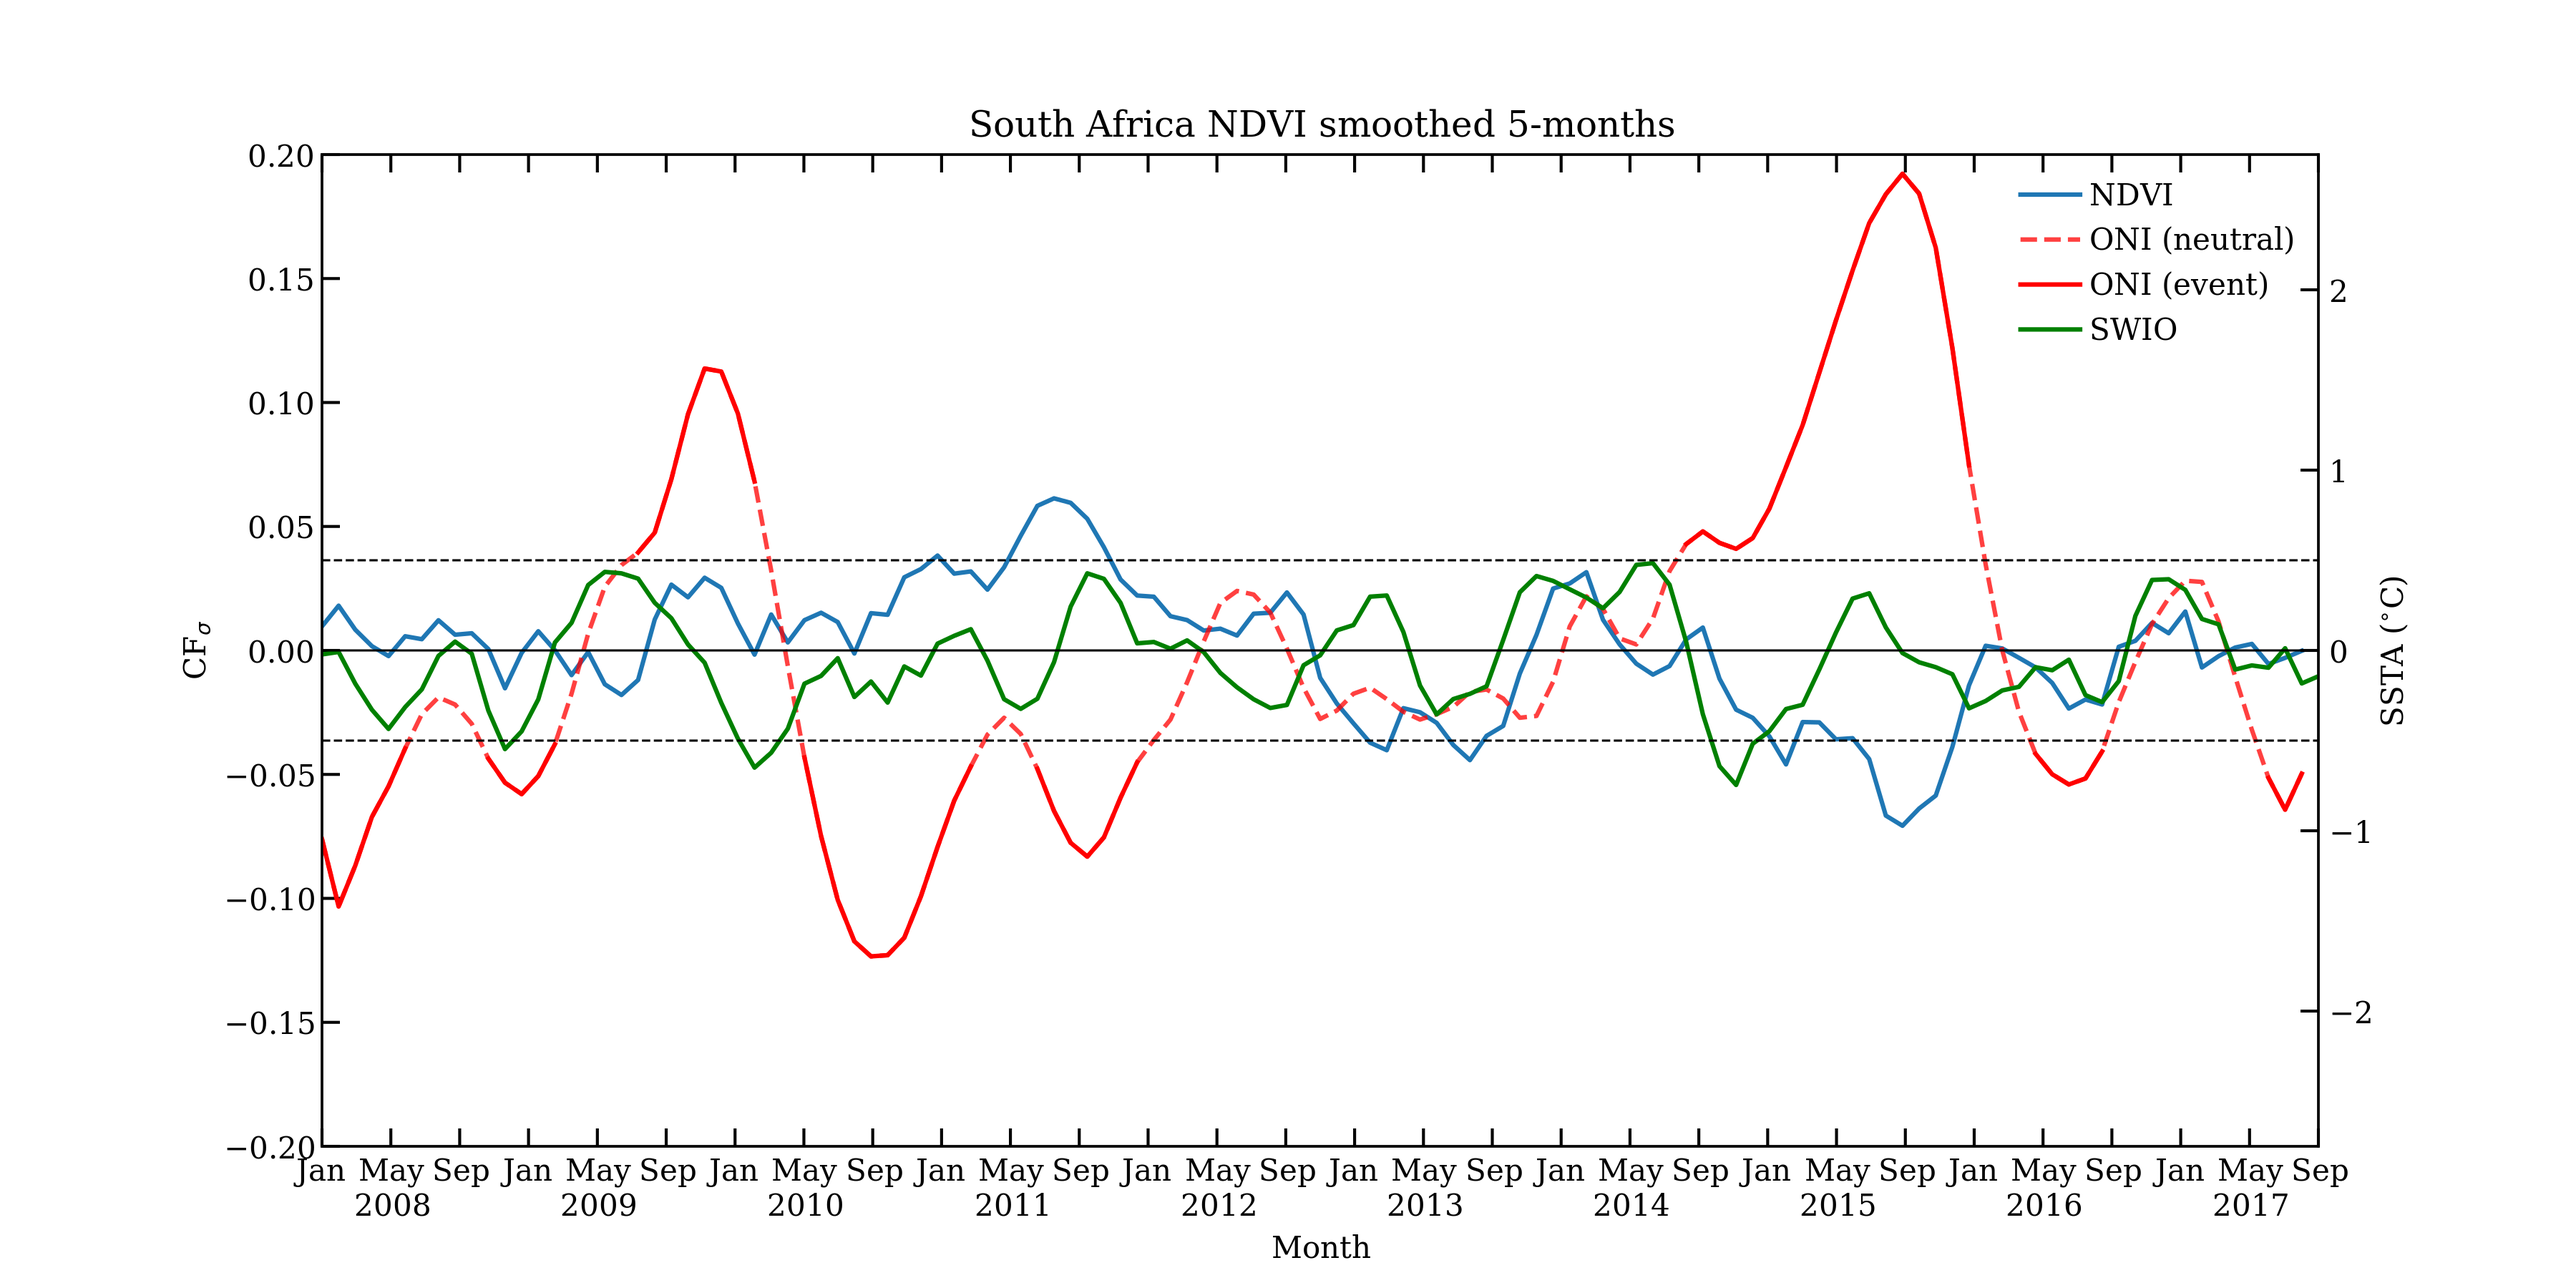
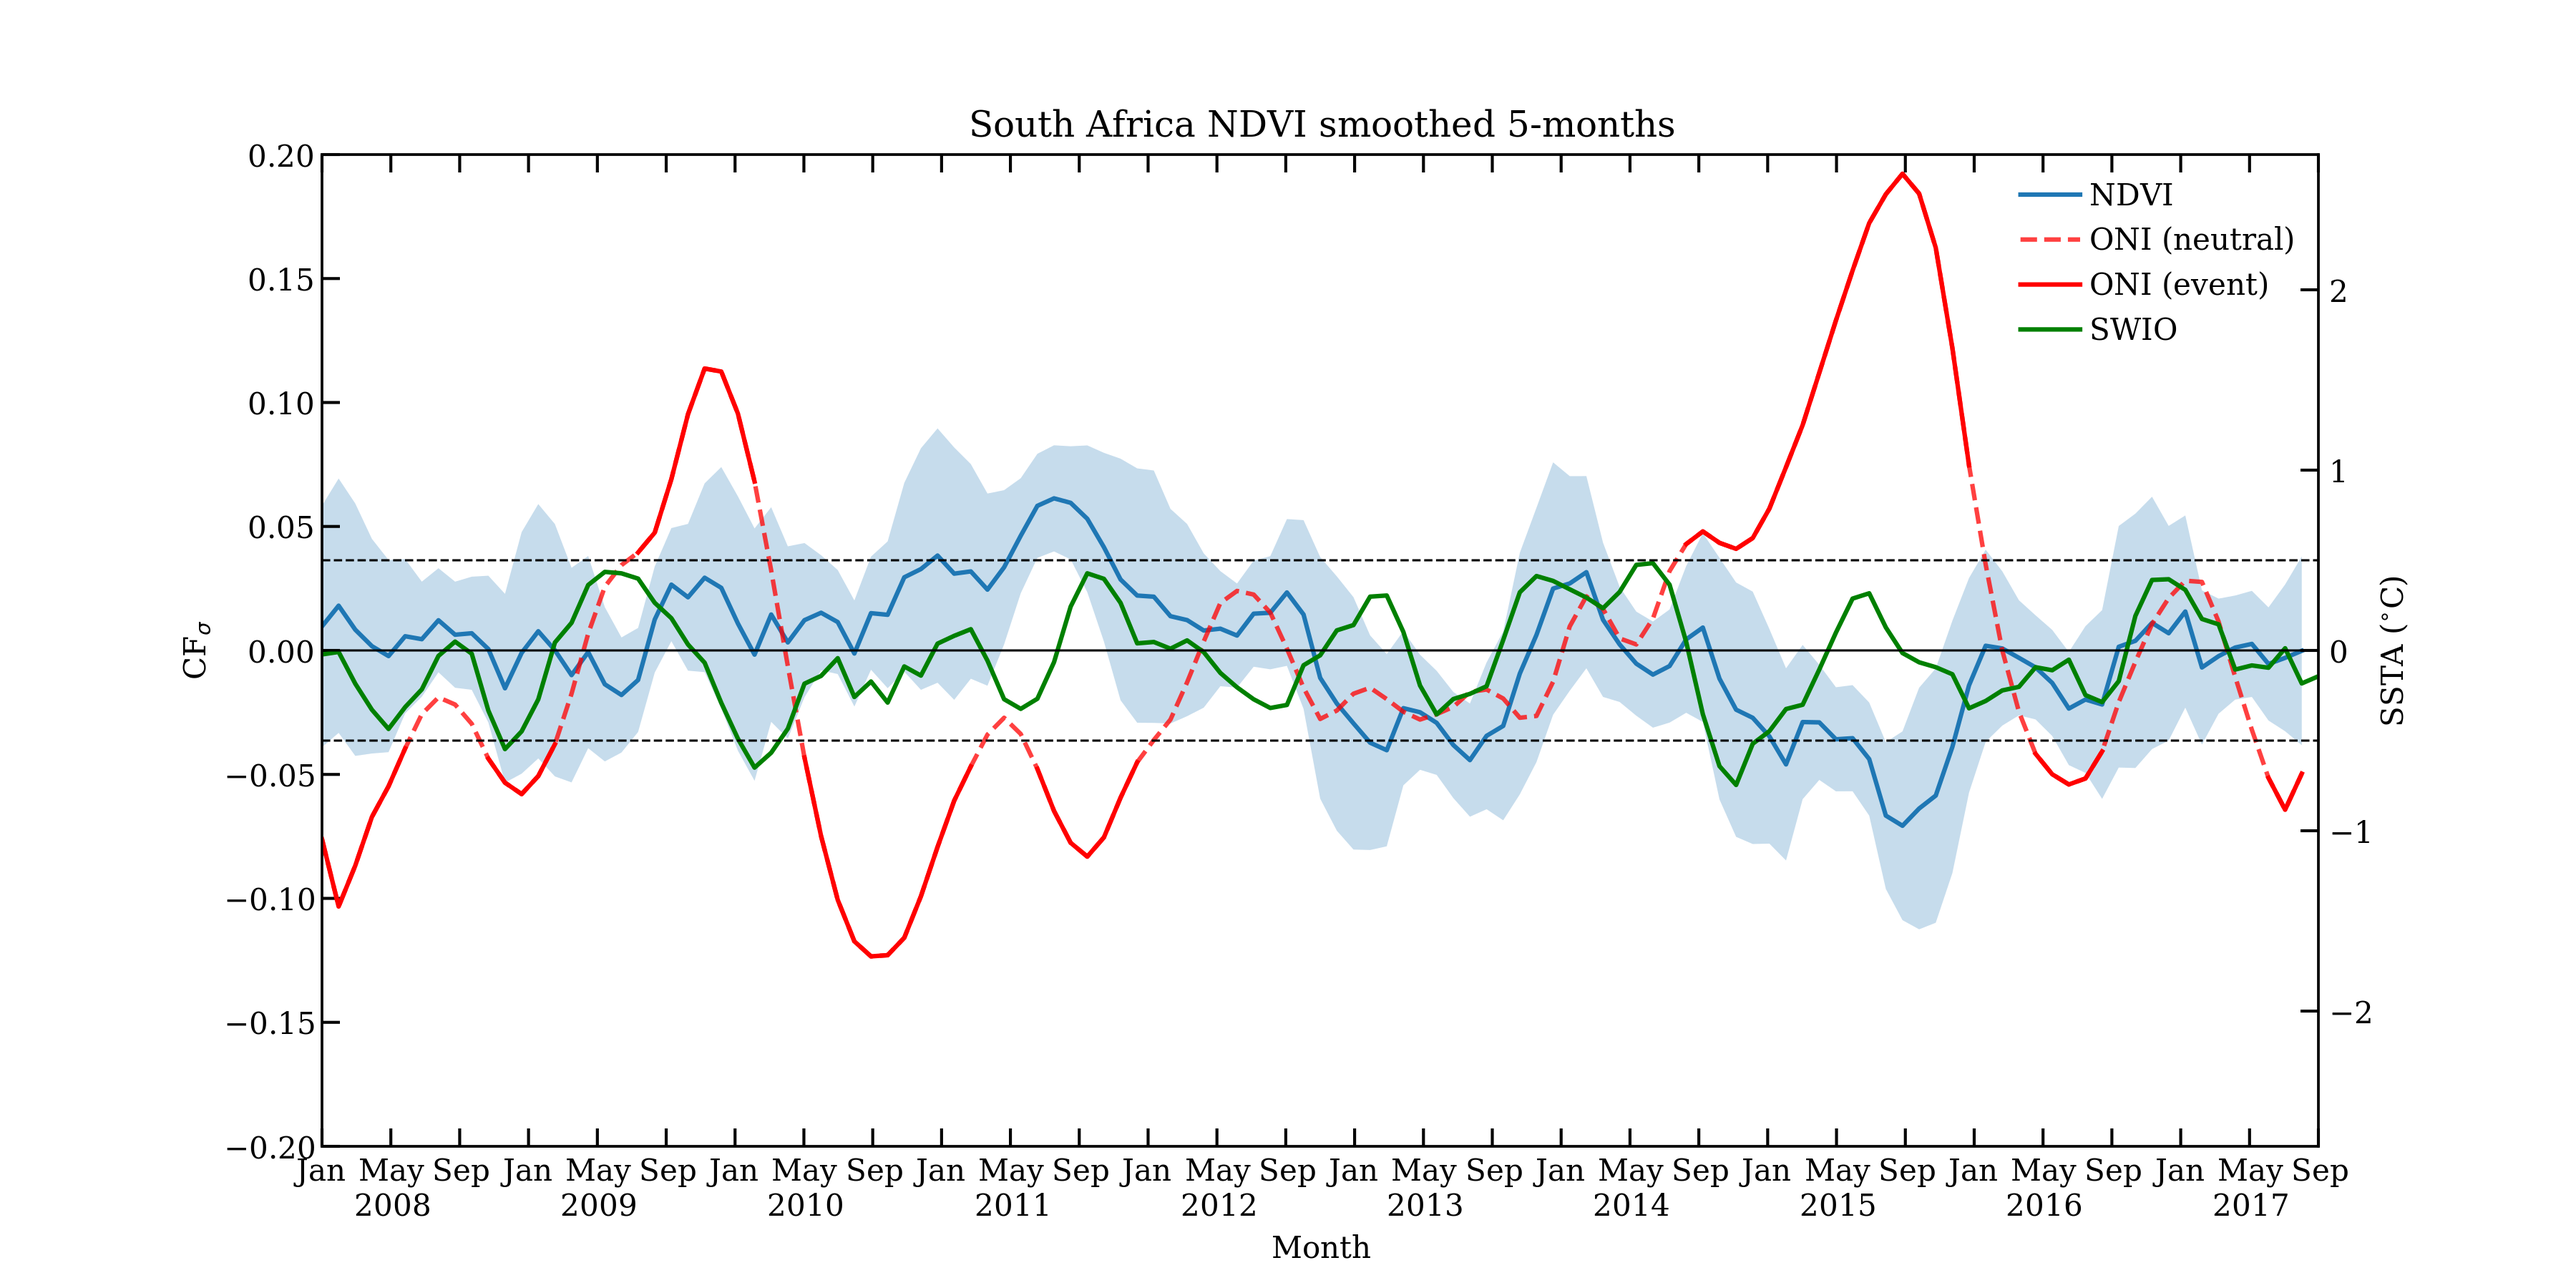
Add errors to ndvi

Changed region(s): [[0.1244, 0.3422, 0.9022, 0.7156]]

diff --git a/code/ndvi_analysis.py b/code/ndvi_analysis.py
@@ -269,7 +269,7 @@ def plot_three_fb_ds(plotting_data, idxs, corr_labels, x_labels, month_step):
                     plotting_data[0][0] - plotting_data[0][1], alpha=0.25)
     ax.set_xlim([0, n])
     ax.set_ylim([-0.2, 0.2])
-    ax.set_ylabel(r'CF$_{\sigma}$')
+    ax.set_ylabel(r'NDVI$_{\sigma}$')
     ax1 = ax.twinx()
     # plot all th
     neu = replace_with_nans(plotting_data[1], np.logical_or(idxs[0], idxs[1]))
@@ -297,7 +297,7 @@ def plot_three_fb_ds(plotting_data, idxs, corr_labels, x_labels, month_step):
     ax.set_xticklabels([])
     ax1.set_xticklabels(x_labels)
     ax.set_xlabel('Month')
-    ax1.set_xlabel('Month')    
+    ax1.set_xlabel('Month')
 
 
 def plot_ndvi_with_dmi(region, smooth=6):
@@ -344,6 +344,14 @@ def plot_ndvi_with_dmi(region, smooth=6):
 
     return None
 
+def ndvi_uncertainty(month, region):
+    fnames = sorted(glob.glob(ndvi_dir + ndvi_fmt.format('*', month, region) + '.npy'))
+    mask = (1 - image_region(land_mask, weathr_regions[region])).astype(bool)
+    ndvi = np.dstack([np.load(fname)[mask] for fname in fnames]).ravel()
+
+    return abs(np.diff(np.percentile(ndvi, [75, 25]))[0]/2)
+
+
 def plot_ndvi_with_oni_io(region, smooth=5):
     from coverage_analysis_functions import (nino_range,
                                              consecutive_anomalies,
@@ -374,12 +382,15 @@ def plot_ndvi_with_oni_io(region, smooth=5):
         if np.all(oni_tmm[i:(i+5)] >= 0.5):  en[i:(i+5)] = True
         if np.all(oni_tmm[i:(i+5)] <= -0.5): ln[i:(i+5)] = True
 
+    # Uncertainty is simply IQR
+    errors = np.tile([ndvi_uncertainty('{:02d}'.format(m), region)
+                      for m in np.arange(1,13)],
+                     10)
+
     corr_labels = ['NDVI', 'ONI (neutral)', 'ONI (event)', io_label]
     # TODO Add error data here for NDVI, using IQR.
-    plotting_data = [[ndvi_anomalies(region, smooth=smooth)[0],
-                      np.zeros_like(ndvi_anomalies(region, smooth=smooth)[0])],
-                     oni_tmm,
-                     io_tmm[2]]
+    plotting_data = [[ndvi_anomalies(region, smooth=smooth)[0], errors],
+                     oni_tmm, io_tmm[2]]
     month_step = 4
     x_labels = month_and_year_labels(np.tile([1, 5, 9], 10), np.arange(2008, 2018), 4)    
     plot_three_fb_ds(plotting_data, [en, ln], corr_labels, x_labels, month_step)

diff --git a/report/results.tex b/report/results.tex
@@ -179,7 +179,7 @@ positive anomaly (e.g. far west, north west).
   \end{subfigure}
   \begin{subfigure}{\textwidth}
     \centering
-    \includegraphics[width=0.85\textwidth]{figures/ndvi_oni_io_xoeastafrica_smoothed_5.png}
+    \includegraphics[width=0.85\textwidth]{figures/ndvi_oni_io_eastafrica_smoothed_5.png}
     \caption{East Africa}
     \label{fig:ndvi_t_east}
     \end{subfigure}
